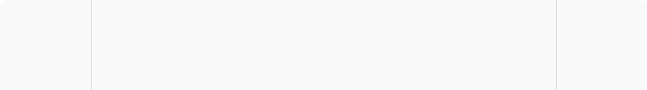
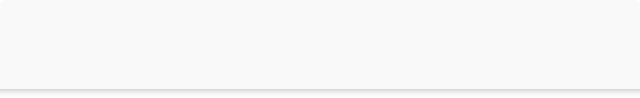
Added shadow on navigation bar

Changed region(s): [[0.0, 0.9111, 1.0, 0.9333]]

diff --git a/iGauss/Classes/Controllers/Projects/ProjectEditorViewController.m b/iGauss/Classes/Controllers/Projects/ProjectEditorViewController.m
@@ -41,6 +41,8 @@ typedef enum {
 @property (nonatomic, strong) SKBindingManager *bindingManager;
 @property (nonatomic, assign) ProjectEditorMode projectEditorMode;
 
+@property (nonatomic, assign) BOOL changeOccured;
+
 @end
 
 @implementation ProjectEditorViewController
@@ -51,6 +53,7 @@ typedef enum {
 {
     [super viewDidLoad];
     self.bindingManager = [[SKBindingManager alloc] init];
+    self.changeOccured = NO;
     
     if (self.projectSession == nil) {
         self.projectEditorMode = ProjectEditorModeAdd;
@@ -213,7 +216,11 @@ typedef enum {
     
     alertView.tag = ALERT_DISCARD;
     alertView.delegate = self;
-    [alertView show];
+    if (self.changeOccured) {
+        [alertView show];
+    } else {
+        [self customAlertViewConfirmed:alertView];
+    }
 }
 
 #pragma mark - form actions
@@ -335,6 +342,8 @@ typedef enum {
     [bindingOptions setObject:@YES                       forKey:BindingTwoWayBinding];
     [self.bindingManager bind:bindingOptions];
     
+    self.bindingManager.delegate = self;
+    
 }
 
 #pragma mark - Custom alert view delegate
@@ -402,6 +411,12 @@ typedef enum {
     if ([segue.identifier isEqualToString:@"openProjects"]) {
         [(ProjectsViewController *)segue.destinationViewController setSession:self.projectSession];
     }
+}
+
+#pragma mark - binding delegate
+
+- (void)bindedObject:(id)object changedKeyPath:(NSString *)keyPath {
+    self.changeOccured = YES;
 }
 
 @end

diff --git a/iGauss/Classes/Controllers/Projects/ProjectSessionsViewController.m b/iGauss/Classes/Controllers/Projects/ProjectSessionsViewController.m
@@ -93,6 +93,9 @@
     NSString *dateString = [[[((CoreDataTableView *)tableView).fetchedResultsController sections] objectAtIndex:section] name];
     NSDateFormatter *dateFormatter = [[NSDateFormatter alloc] init];
     dateFormatter.dateFormat = @"yyyy-MM-dd HH:mm:ss ZZZ";
+    NSLocale *usLocale = [[NSLocale alloc] initWithLocaleIdentifier:@"en_US"];
+    [dateFormatter setLocale:usLocale];
+    
     NSDate *date = [dateFormatter dateFromString:dateString];
 
     UIView *headerView = [[UIView alloc] initWithFrame:CGRectMake(0, 0, 320, 26)];

diff --git a/iGauss/Classes/Controllers/Projects/ProjectEditorViewController.h b/iGauss/Classes/Controllers/Projects/ProjectEditorViewController.h
@@ -10,8 +10,9 @@
 #import "ProjectSession.h"
 #import "CustomAlertView.h"
 #import "CKCalendarView.h"
+#import "SKBindingManager.h"
 
-@interface ProjectEditorViewController : UIViewController <CustomAlertViewDelegate, CKCalendarDelegate>
+@interface ProjectEditorViewController : UIViewController <CustomAlertViewDelegate, CKCalendarDelegate, SKBindingProtocol>
 
 @property (weak, nonatomic) IBOutlet UILabel *screenTitle;
 
